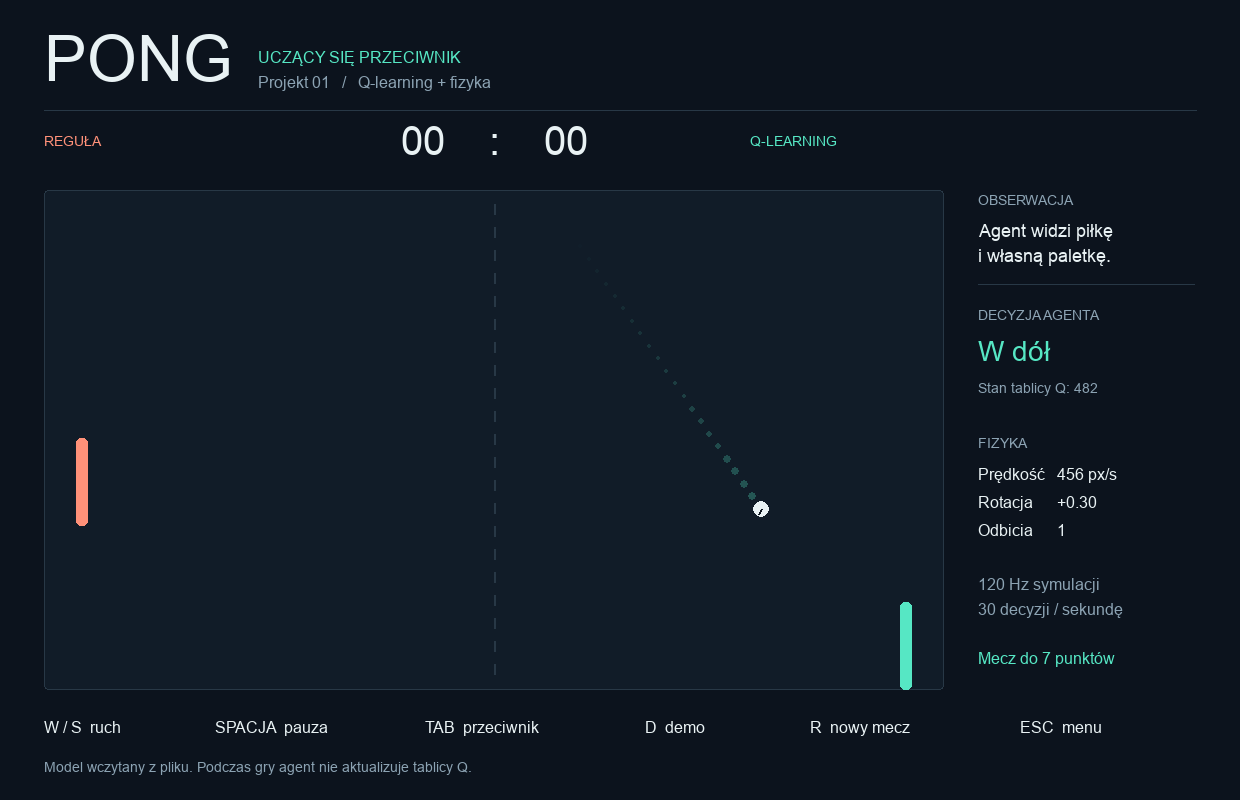
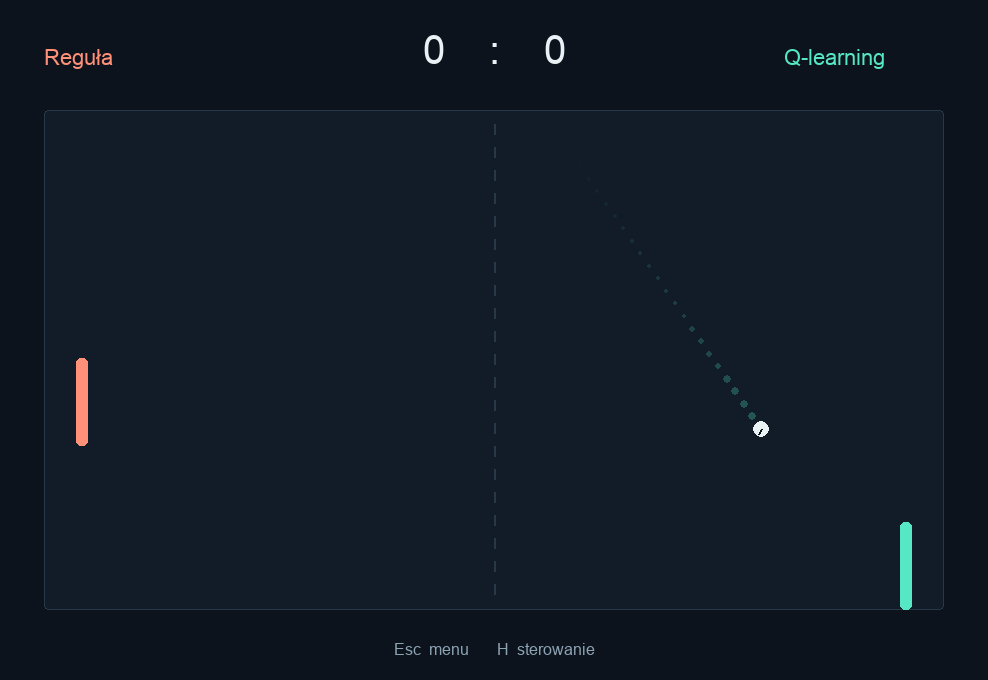
Simplify game interface and keep rallies running until a point is scored

diff --git a/kod/pong/gui.py b/kod/pong/gui.py
@@ -1,13 +1,13 @@
 """Desktop interface. Uses the same simulation and policies as the experiments."""
 from collections import deque
+from dataclasses import replace
 from enum import Enum
 import math
 import os
 from pathlib import Path
 os.environ.setdefault("PYGAME_HIDE_SUPPORT_PROMPT", "1")
 import pygame
-from .agents import QAgent, RandomAgent, Tracker, encode
-from .config import Config
+from .agents import QAgent, RandomAgent, Tracker
 from .physics import Pong
 
 
@@ -18,8 +18,8 @@ TEXT = (233, 242, 244)
 MUTED = (140, 163, 179)
 TEAL = (86, 231, 196)
 CORAL = (255, 145, 121)
-W, H = 1240, 800
-OX, OY = 44, 190
+W, H = 988, 680
+OX, OY = 44, 110
 
 
 class Scene(Enum):
@@ -37,7 +37,7 @@ class Game:
         self.canvas = pygame.Surface((W, H))
         self.fonts = {size: pygame.font.SysFont("Arial", size) for size in (14, 16, 18, 22, 28, 40, 64, 76)}
         self.agent = QAgent.load(model_path)
-        self.env = Pong(self.agent.cfg, seed)
+        self.env = Pong(replace(self.agent.cfg, max_steps=0), seed)
         self.tracker = Tracker()
         self.right_tracker = Tracker(side="right")
         self.random = RandomAgent(seed)
@@ -50,7 +50,6 @@ class Game:
         self.trail = deque(maxlen=22)
         self.accumulator = 0.0
         self.point_delay = .6
-        self.last_action = 0
         self.help = False
 
     def text(self, value, x, y, size=18, color=TEXT, center=False):
@@ -68,6 +67,7 @@ class Game:
         self.scene = Scene.PLAY
         self.point_delay = .6
         self.accumulator = 0.0
+        self.help = False
 
     def events(self):
         for event in pygame.event.get():
@@ -77,9 +77,12 @@ class Game:
                 continue
             key = event.key
             if key == pygame.K_ESCAPE:
-                if self.scene == Scene.MENU:
+                if self.help:
+                    self.help = False
+                elif self.scene == Scene.MENU:
                     return False
-                self.scene = Scene.MENU
+                else:
+                    self.scene = Scene.MENU
             elif key == pygame.K_RETURN:
                 if self.scene in (Scene.MENU, Scene.FINISHED):
                     self.new_match(False)
@@ -100,7 +103,7 @@ class Game:
         return True
 
     def update(self, dt):
-        if self.scene != Scene.PLAY:
+        if self.scene != Scene.PLAY or self.help:
             return
         if self.point_delay > 0:
             self.point_delay -= dt
@@ -122,7 +125,6 @@ class Game:
                 action = self.random.action(obs)
             else:
                 action = self.untrained.action(obs)
-            self.last_action = action
             result = self.env.step(action, left)
             self.trail.append((self.env.ball.x, self.env.ball.y))
             if result.done:
@@ -140,13 +142,9 @@ class Game:
     def draw(self):
         s = self.canvas
         s.fill(BG)
-        self.text("PONG", OX, 23, 64)
-        self.text("UCZĄCY SIĘ PRZECIWNIK", OX + 214, 48, 16, TEAL)
-        self.text("Projekt 01   /   Q-learning + fizyka", OX + 214, 73, 16, MUTED)
-        pygame.draw.line(s, LINE, (OX, 110), (W - OX, 110))
-        self.text("REGUŁA" if self.demo else "GRACZ", OX, 133, 14, CORAL)
-        self.text(self.policies[self.policy_index].upper(), 750, 133, 14, TEAL)
-        self.text(f"{self.score[0]:02}    :    {self.score[1]:02}", 494, 118, 40, center=True)
+        self.text("Reguła" if self.demo else "Gracz", OX, 45, 22, CORAL)
+        self.text(self.policies[self.policy_index], W - OX - 160, 45, 22, TEAL)
+        self.text(f"{self.score[0]}    :    {self.score[1]}", W / 2, 27, 40, center=True)
         pygame.draw.rect(s, FIELD, (OX, OY, 900, 500), border_radius=4)
         pygame.draw.rect(s, LINE, (OX, OY, 900, 500), 1, border_radius=4)
         for y in range(OY + 14, OY + 490, 23):
@@ -165,47 +163,30 @@ class Game:
         angle = self.env.elapsed * b.spin * 2
         pygame.draw.line(s, BG, (OX + b.x, OY + b.y),
                          (OX + b.x + 6 * math.cos(angle), OY + b.y + 6 * math.sin(angle)), 2)
-        x = 978
-        self.text("OBSERWACJA", x, 192, 14, MUTED)
-        self.text("Agent widzi piłkę", x, 220, 18)
-        self.text("i własną paletkę.", x, 245, 18)
-        pygame.draw.line(s, LINE, (x, 284), (1194, 284))
-        self.text("DECYZJA AGENTA", x, 307, 14, MUTED)
-        self.text({-1: "W górę", 0: "Zostań", 1: "W dół"}[self.last_action], x, 335, 28, TEAL)
-        self.text(f"Stan tablicy Q: {self.agent.state(self.env.observe())}", x, 380, 14, MUTED)
-        self.text("FIZYKA", x, 435, 14, MUTED)
-        self.text(f"Prędkość   {math.hypot(b.vx, b.vy):.0f} px/s", x, 465, 16)
-        self.text(f"Rotacja      {b.spin:+.2f}", x, 493, 16)
-        self.text(f"Odbicia      {self.env.hits}", x, 521, 16)
-        self.text("120 Hz symulacji", x, 575, 16, MUTED)
-        self.text("30 decyzji / sekundę", x, 600, 16, MUTED)
-        self.text("Mecz do 7 punktów", x, 649, 16, TEAL)
-        self.text("W / S  ruch", OX, 718, 16)
-        self.text("SPACJA  pauza", 215, 718, 16)
-        self.text("TAB  przeciwnik", 425, 718, 16)
-        self.text("D  demo", 645, 718, 16)
-        self.text("R  nowy mecz", 810, 718, 16)
-        self.text("ESC  menu", 1020, 718, 16)
-        self.text("Model wczytany z pliku. Podczas gry agent nie aktualizuje tablicy Q.", OX, 759, 14, MUTED)
-        if self.scene != Scene.PLAY:
+        self.text("Esc  menu       H  sterowanie", W / 2, 640, 16, MUTED, True)
+        if self.scene != Scene.PLAY or self.help:
             shade = pygame.Surface((900, 500), pygame.SRCALPHA)
             shade.fill((9, 17, 26, 235))
             s.blit(shade, (OX, OY))
-            if self.scene == Scene.MENU:
-                self.text("PONG", 494, 265, 76, center=True)
-                self.text("Człowiek kontra wyuczony agent", 494, 371, 28, TEAL, True)
-                self.text("ENTER   graj", 494, 448, 22, center=True)
-                self.text("D   demonstracja reguła kontra AI", 494, 493, 22, center=True)
-                self.text("W / S lub strzałki sterują lewą paletką", 494, 581, 18, MUTED, True)
+            if self.help:
+                self.text("Sterowanie", W / 2, OY + 55, 40, center=True)
+                self.text("W / S lub strzałki   ruch", W / 2, OY + 145, 22, center=True)
+                self.text("Spacja   pauza", W / 2, OY + 190, 22, center=True)
+                self.text("Tab   przeciwnik       D   demo", W / 2, OY + 235, 22, center=True)
+                self.text("R   nowy mecz       Esc   menu", W / 2, OY + 280, 22, center=True)
+                self.text("H   wróć", W / 2, OY + 385, 18, TEAL, True)
+            elif self.scene == Scene.MENU:
+                self.text("PONG", W / 2, OY + 85, 76, center=True)
+                self.text("Enter   graj", W / 2, OY + 230, 22, center=True)
+                self.text("D   demo", W / 2, OY + 280, 22, center=True)
+                self.text("H   sterowanie", W / 2, OY + 330, 18, MUTED, True)
             elif self.scene == Scene.PAUSE:
-                self.text("Pauza", 494, 345, 64, center=True)
-                self.text("SPACJA   wróć do gry", 494, 447, 22, TEAL, True)
+                self.text("Pauza", W / 2, OY + 150, 64, center=True)
+                self.text("Spacja   wznów", W / 2, OY + 255, 22, TEAL, True)
             else:
                 winner = self.policies[self.policy_index] if self.score[1] >= 7 else "Reguła" if self.demo else "Gracz"
-                self.text(f"Wygrywa: {winner}", 494, 345, 40, TEAL, True)
-                self.text("ENTER   nowy mecz", 494, 440, 22, center=True)
-        if self.help:
-            self.text("H   ukryj pomoc: agent po prawej, człowiek lub reguła po lewej", OX, 165, 14, MUTED)
+                self.text(f"Wygrywa: {winner}", W / 2, OY + 150, 40, TEAL, True)
+                self.text("Enter   nowy mecz", W / 2, OY + 250, 22, center=True)
         size = self.window.get_size()
         self.window.fill(BG)
         scale = min(size[0] / W, size[1] / H)

diff --git a/narzedzia/dokumenty.py b/narzedzia/dokumenty.py
@@ -293,7 +293,7 @@ def build_report(summary, manifest, team):
         p("Mierzymy udział wygranych punktów, straty, remisy po 20 s, liczbę odbić obu "
           "paletek na punkt, czas trwania i udział decyzji z poleceniem ruchu. Dodatkowo "
           "liczymy wyniki bloków po 9 niezależnych punktów jako mecze laboratoryjne. "
-          "Interfejs używa innej reguły: do 7 zdobytych punktów."),
+          "Interfejs używa innej reguły: do 7 zdobytych punktów, bez limitu czasu wymiany."),
         p(f"Cały protokół zawiera {total_points} punktów testu końcowego i trwał "
           f"{minutes:.1f} min w zarejestrowanym środowisku, z maksymalnie trzema procesami "
           "trenującymi równolegle. Walidacja nie aktualizuje modelu. Wspólne ziarna "
@@ -433,6 +433,7 @@ def build_instructions():
         table([["Klawisz", "Działanie"], ["Enter", "Gra / nowy mecz po zakończeniu"],
                ["W/S lub strzałki", "Sterowanie lewą paletką"], ["Spacja", "Pauza / wznowienie"],
                ["Tab", "Zmiana przeciwnika i nowy mecz"], ["D / R", "Demonstracja / reset meczu"],
+               ["H", "Sterowanie, rozgrywka wstrzymana podczas pomocy"],
                ["Esc", "Menu, następnie zamknięcie programu"]], [140, 350])],
         [title("Eksperymenty i przygotowanie ZIP"),
          sub("4. Własny model i pełne odtworzenie"),

diff --git a/narzedzia/pakuj.py b/narzedzia/pakuj.py
@@ -26,7 +26,7 @@ def main():
     if status.strip() and not args.allow_dirty:
         raise SystemExit("Zapisz zmiany w Git przed pakowaniem, aby wersja była jednoznaczna.")
     commit = subprocess.check_output(["git", "rev-parse", "HEAD"], cwd=ROOT, text=True).strip()
-    version = {"version": "1.0.1", "commit": commit, "dirty": bool(status.strip()),
+    version = {"version": "1.0.2", "commit": commit, "dirty": bool(status.strip()),
                "repository": "Lokalne repozytorium Git. Kompletny kod jest w kod/."}
     candidates = [ROOT / f for f in FILES]
     for directory in DIRS:

diff --git a/kod/pong/physics.py b/kod/pong/physics.py
@@ -157,7 +157,7 @@ class Pong:
                 break
         self.steps += 1
         terminated = winner != 0
-        truncated = not terminated and self.steps >= c.max_steps
+        truncated = not terminated and c.max_steps > 0 and self.steps >= c.max_steps
         self.done = terminated or truncated
         hit_delta = self.right_hits - previous_hits
         return Transition(float(winner) + .2 * hit_delta, terminated, truncated,

diff --git a/kod/pong/__init__.py b/kod/pong/__init__.py
@@ -1,3 +1,3 @@
 """PONG: shared simulation, tabular learning and desktop game."""
 
-__version__ = "1.0.1"
+__version__ = "1.0.2"

diff --git a/README.md b/README.md
@@ -1,7 +1,7 @@
 # Projekt 1. Pong - przeciwnik uczący się grać
 
 **Zespół 1, poniedziałek 8:00-10:15.** Przedmiot: Sztuczna inteligencja w grach
-i rozszerzonej rzeczywistości. Wersja 1.0.1.
+i rozszerzonej rzeczywistości. Wersja 1.0.2.
 
 Gra 2D z tablicowym Q-learningiem, treningiem bez grafiki i zapisem wyuczonego
 modelu. Agent wybiera ruch w górę, postój albo ruch w dół. Wyniki porównano
@@ -34,8 +34,9 @@ py -3 -m venv .venv
 Po wejściu do gry naciśnij Enter. W/S lub strzałki sterują lewą paletką.
 Spacja wstrzymuje grę, Tab zmienia przeciwnika, D przełącza demonstrację,
 R rozpoczyna nowy mecz, Esc wraca do menu. Z menu Esc zamyka program.
-Mecz w interfejsie trwa do 7 punktów. Przekroczenie 20 sekund pojedynczej wymiany
-powoduje nowy serwis bez przyznania punktu.
+H wyświetla sterowanie i wstrzymuje rozgrywkę na czas czytania pomocy.
+Mecz w interfejsie trwa do 7 punktów. Wymiany w grze nie mają limitu czasu.
+Limit 20 sekund dotyczy wyłącznie treningu i oceny eksperymentalnej.
 
 ```bash
 python kod/main.py play --demo

diff --git a/dokumentacja/sprawozdanie.md b/dokumentacja/sprawozdanie.md
@@ -131,7 +131,7 @@ W ocenie sprawdzamy także agenta losowego, zerową tablicę Q i regułę po pra
 
 ## Miary i niepewność
 
-Mierzymy udział wygranych punktów, straty, remisy po 20 s, liczbę odbić obu paletek na punkt, czas trwania i udział decyzji z poleceniem ruchu. Dodatkowo liczymy wyniki bloków po 9 niezależnych punktów jako mecze laboratoryjne. Interfejs używa innej reguły: do 7 zdobytych punktów.
+Mierzymy udział wygranych punktów, straty, remisy po 20 s, liczbę odbić obu paletek na punkt, czas trwania i udział decyzji z poleceniem ruchu. Dodatkowo liczymy wyniki bloków po 9 niezależnych punktów jako mecze laboratoryjne. Interfejs używa innej reguły: do 7 zdobytych punktów, bez limitu czasu wymiany.
 
 Cały protokół zawiera 13950 punktów testu końcowego i trwał 4.5 min w zarejestrowanym środowisku, z maksymalnie trzema procesami trenującymi równolegle. Walidacja nie aktualizuje modelu. Wspólne ziarna zapewniają takie same serwisy, ale dalsze trajektorie zależą od strategii.
 
